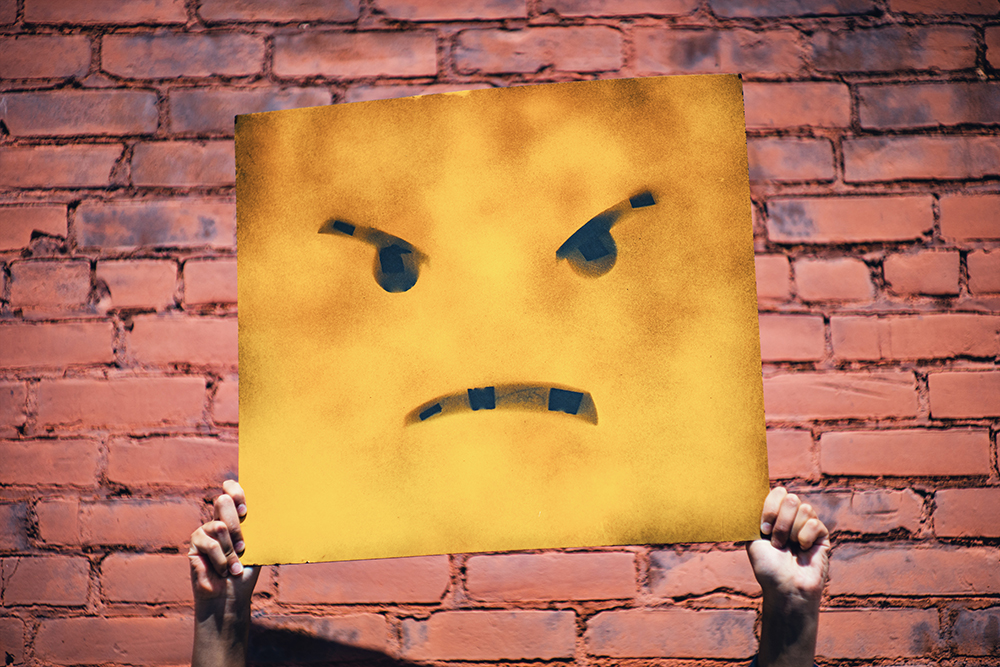
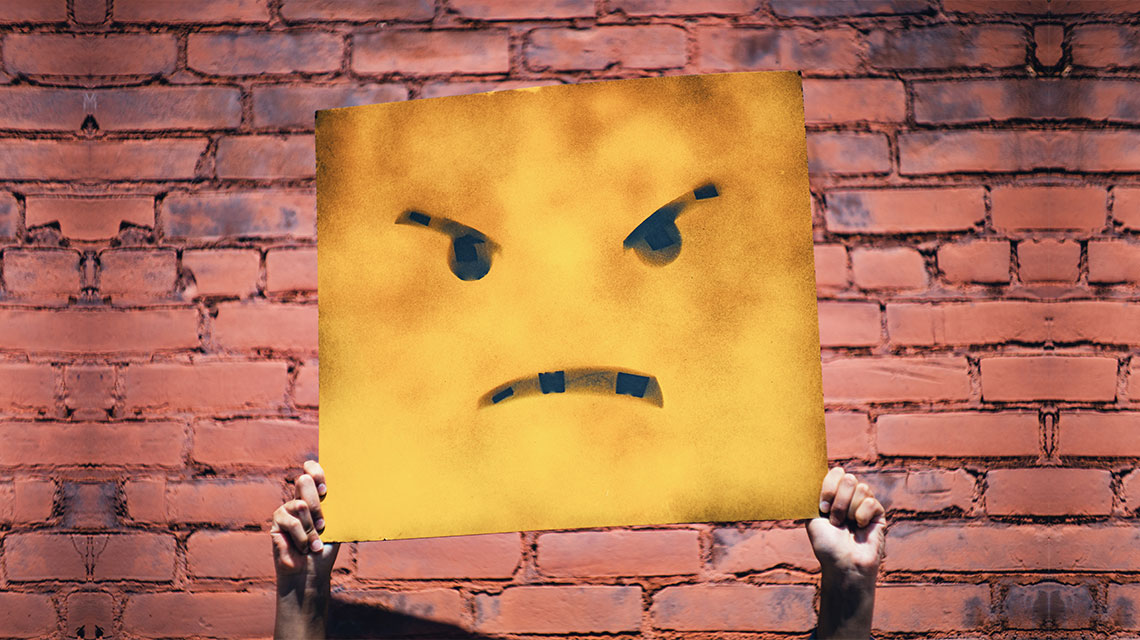
Image udpates

diff --git a/index.html b/index.html
@@ -36,7 +36,7 @@ layout: default
 		{% for post in paginator.posts %}
 		<article class="col-xs-12 col-sm-6 col-lg-4 post-summary">
 			{% if post.image %}
-			<a href="{{ site.baseurl }}{{ post.url }}" class="ratio--16x9 post__thumb zoom-hover" style="background-image: url({{ post.image }});">
+			<a href="{{ site.baseurl }}{{ post.url }}" class="ratio--16x9 post__thumb zoom-hover" style="background-image: url({{ post.image | replace:'.jpg', '_sml.jpg'  | replace:'.png', '_sml.png' }});">
 				<div class="ratio__content post__thumb-overlay"></div>
 			</a>
 			{% endif %}

diff --git a/_drafts/happy-porch-hotseat-introverts-among-us.md b/_drafts/happy-porch-hotseat-introverts-among-us.md
@@ -1,7 +1,7 @@
 ---
 layout: post
-title: HappyPorchHotseat, Introverts Among Us
-image: /media/happyporchradio/happyporchradio-videointro.png
+title: Happy Porch Hotseat, Introverts Among Us
+image: /media/happyporchradio/masthead.jpg
 author: barry_okane
 ---
 
@@ -11,12 +11,14 @@ Being comfortable discussing challenges, ways to cope, and learning from one ano
 
 I was fascinated by a discussion at the Umbraco CodeGarden conference earlier this year, where Matt and others shared a little about how reading Marti Olsen Lany's book [The Introvert Advantage](https://www.amazon.co.uk/dp/0761123695) had affected them.  Then, during (and after) recoridng a [HappyPorchRadio episode](happyporchradio.com/codegarden/) with Carole Logan and Ondrej Pialek it became really clear to me that there could be a lot more discussion on this topic within the developer community.
 
-So, as part of this ongoing discussion, I recently had the honour of hosting a live HappyPorchRadio Hotseat webinar entitled "Introverts Among Us".  I was joined by Jenn Granneman, who is the founder of IntrovertDear.com and the author of the book, [The Secret Lives of Introverts](https://www.amazon.com/Secret-Lives-Introverts-Inside-Hidden/dp/1510721029/): Inside Our Hidden World. And by Matt Brailsford who created theintdev.com! 
+So, as part of this ongoing discussion, I recently had the honour of hosting a live HappyPorchRadio Hotseat webinar entitled "Introverts Among Us".  I was joined by Jenn Granneman, who is the founder of [IntrovertDear.com](https://IntrovertDear.com) and the author of the book, [The Secret Lives of Introverts](http://www.amazon.com/Secret-Lives-Introverts-Inside-Hidden/dp/1510721029/): Inside Our Hidden World. And by Matt Brailsford who created theintdev.com! 
 
 We had a fun conversation, with some great contributions from others on the call, I hope that other agency folks and developers in particular find it as useful as I did.
 
-You can watch a [recording of the live virtual meetup "Introverts Among Us" here](https://vimeo.com/235996013).
+You can watch a recording of the live virtual meetup "Introverts Among Us" below.
 
-{::nomarkdown}
+<div class="video">
 <iframe src="https://player.vimeo.com/video/235996013?byline=0&portrait=0" width="640" height="360" frameborder="0" webkitallowfullscreen mozallowfullscreen allowfullscreen></iframe>
-{:/}
+</div>
+
+Photo by [João Silas](https://unsplash.com/photos/SA1gpcN-Pz4?utm_source=unsplash&utm_medium=referral&utm_content=creditCopyText) on [Unsplash](https://unsplash.com/?utm_source=unsplash&utm_medium=referral&utm_content=creditCopyText)

diff --git a/_posts/2017-10-01-hello-world.md b/_posts/2017-10-01-hello-world.md
@@ -1,7 +1,7 @@
 ---
 layout: post
 title: Hello World
-image: /media/hello-world/masthead2.jpg
+image: /media/hello-world/masthead.jpg
 author: matt_brailsford
 ---
 
